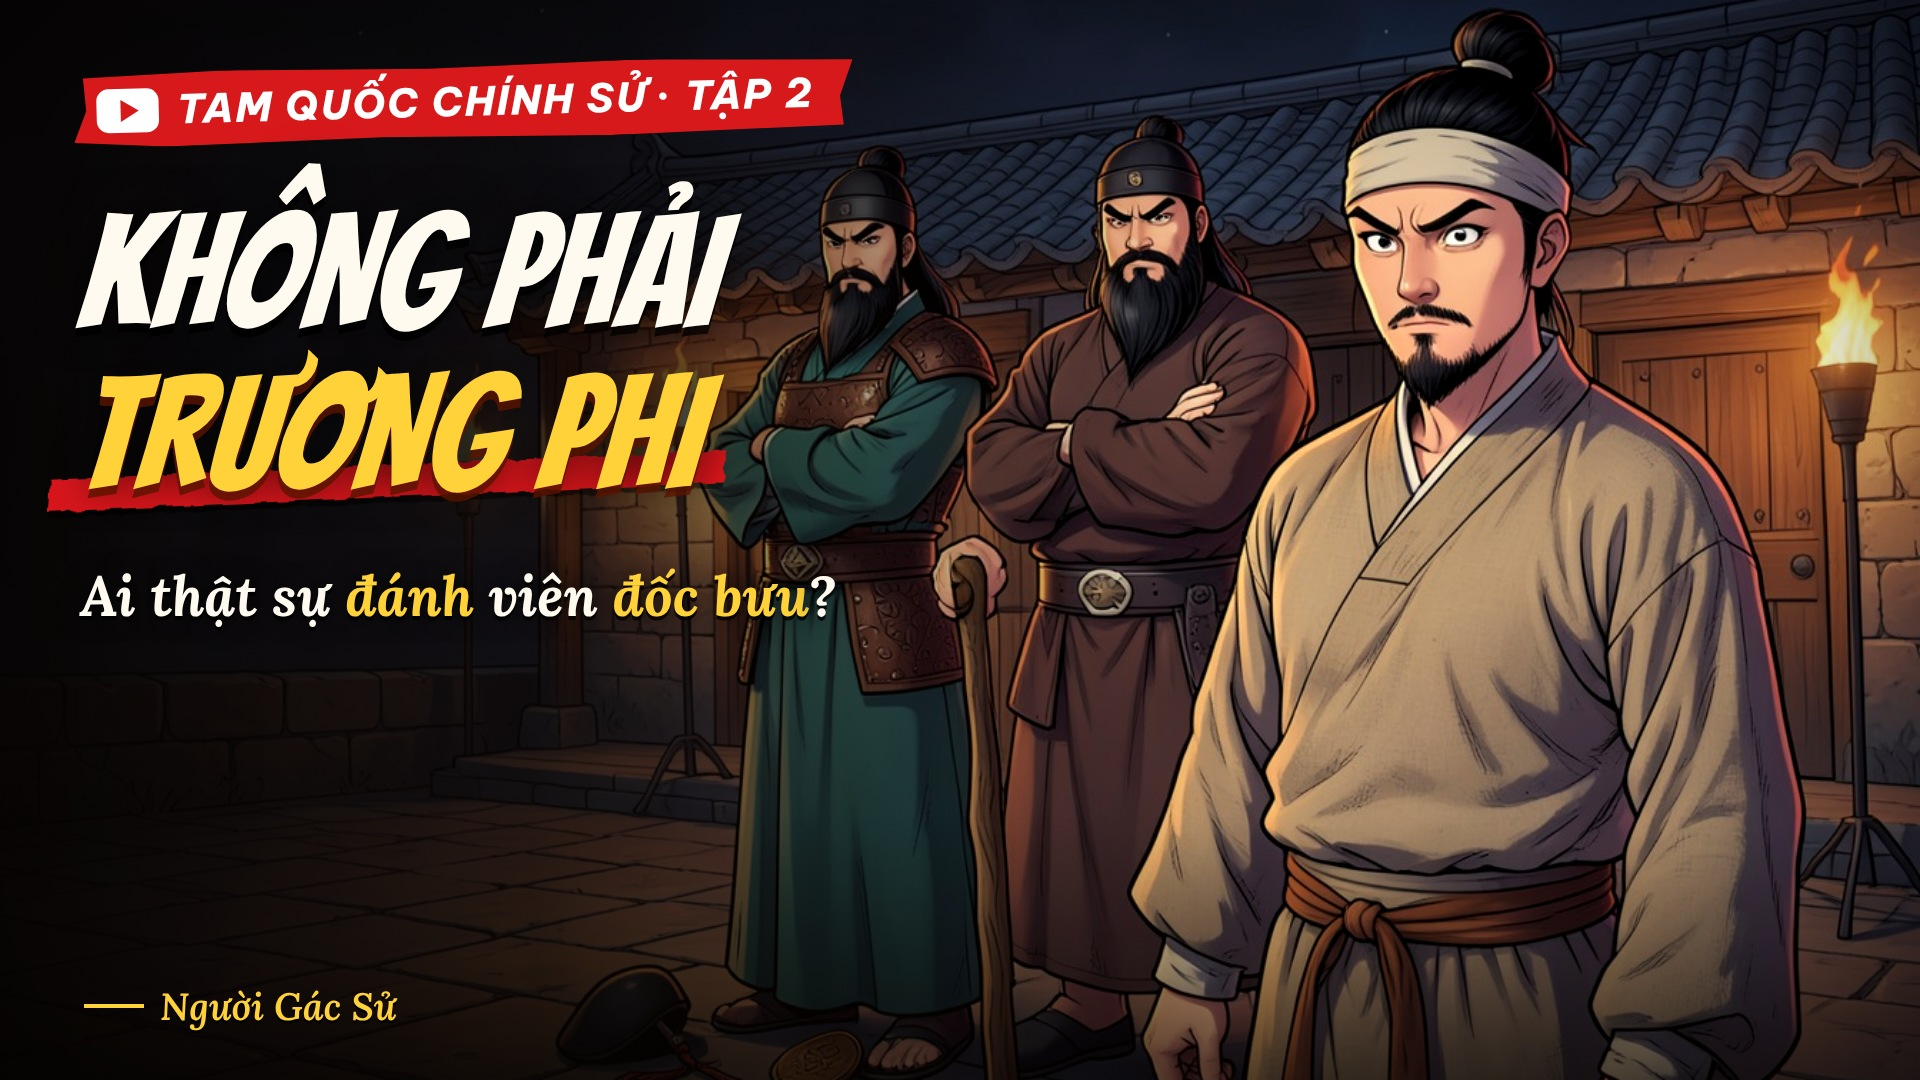
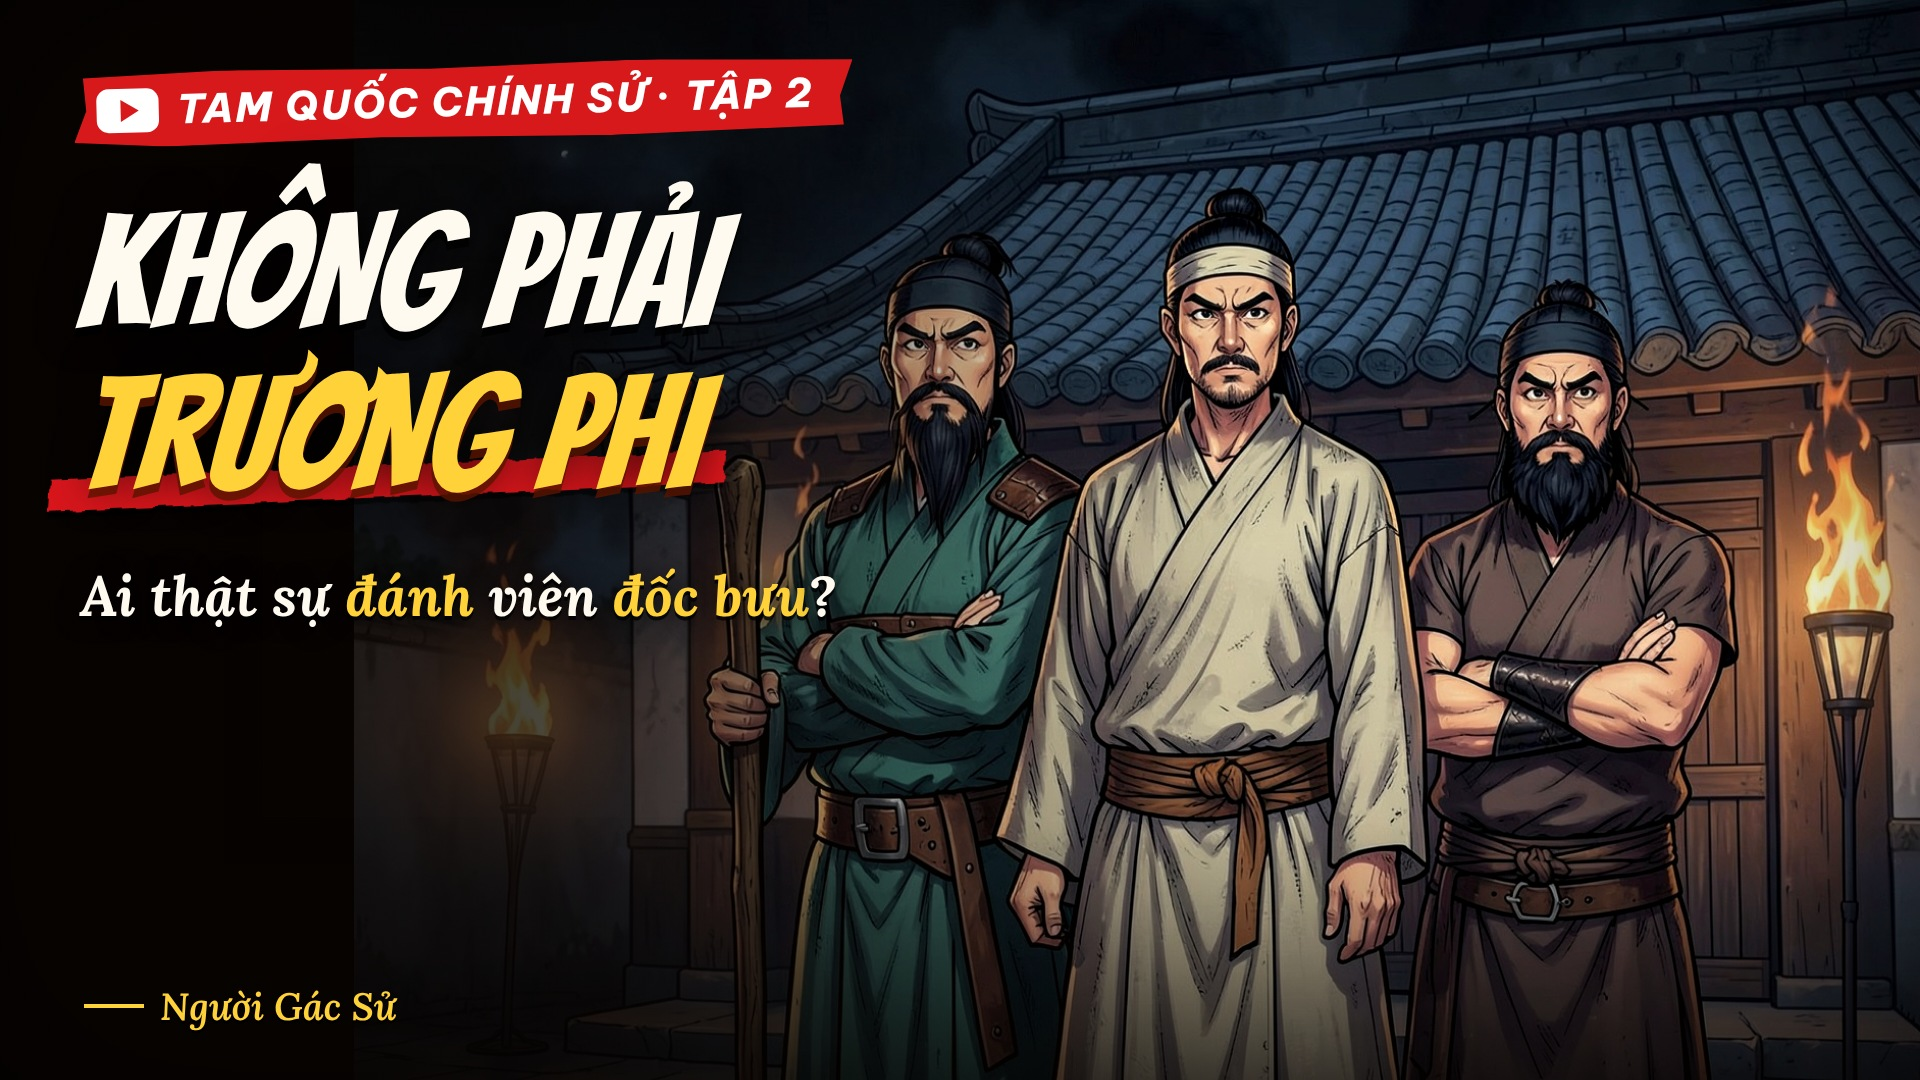
Bìa TQ2: một ảnh chung cho hai khổ (Lưu Bị, Quan Vũ, Trương Phi), cắt riêng từng khổ
Claude-Session: https://claude.ai/code/session_01HrHutZPxqihVFi29VgDfRn

diff --git a/templates/bia2.html b/templates/bia2.html
@@ -9,7 +9,7 @@
 html,body{width:1920px;height:1080px;overflow:hidden;background:#000}
 html:has(body.v){width:1080px;height:1920px}
 body.v{width:1080px;height:1920px}
-#art{position:absolute;inset:0;background-size:cover;background-position:center;filter:saturate(1.12) contrast(1.06)}
+#art{position:absolute;inset:0;background-color:#0a0705;background-repeat:no-repeat;background-size:cover;background-position:center;filter:saturate(1.12) contrast(1.06)}
 #shade{position:absolute;inset:0}
 body.w #shade{background:linear-gradient(90deg,rgba(8,4,2,.92) 0%,rgba(8,4,2,.74) 28%,rgba(8,4,2,.2) 52%,rgba(8,4,2,0) 64%),linear-gradient(0deg,rgba(8,4,2,.55) 0%,rgba(8,4,2,0) 24%)}
 body.v #shade{background:linear-gradient(0deg,rgba(8,4,2,1) 0%,rgba(8,4,2,.95) 24%,rgba(8,4,2,.6) 36%,rgba(8,4,2,.25) 44%,rgba(8,4,2,0) 52%),linear-gradient(180deg,rgba(8,4,2,.6) 0%,rgba(8,4,2,0) 14%)}
@@ -62,6 +62,7 @@ window.setup = function (o) {
   document.body.className = o.mode;
   document.getElementById('art').style.backgroundImage = `url("${o.anh}")`;
   if (o.vi_tri) document.getElementById('art').style.backgroundPosition = o.vi_tri;
+  if (o.co) document.getElementById('art').style.backgroundSize = o.co;
   document.getElementById('bd').textContent = o.huy_hieu;
   document.getElementById('a').textContent = o.dong1;
   document.getElementById('bt').textContent = o.dong2;

diff --git a/bia_dai.py b/bia_dai.py
@@ -28,7 +28,8 @@ def main_moi(sid, script, b, cfg):
             page.goto((ROOT / "templates" / "bia2.html").as_uri())
             o = {"anh": (ROOT / anh).as_uri(), "huy_hieu": t["huy_hieu"], "dong1": t["dong1"], "dong2": t["dong2"],
                  "gach": t.get("gach", False), "dong3": t["dong3"], "kenh": cfg.get("channel", ""), "mode": mode,
-                 "vi_tri": t.get("vi_tri_doc" if mode == "v" else "vi_tri_rong") or t.get("vi_tri")}
+                 "vi_tri": t.get("vi_tri_doc" if mode == "v" else "vi_tri_rong") or b.get("vi_tri_doc" if mode == "v" else "vi_tri_rong"),
+                 "co": t.get("co_doc" if mode == "v" else "co_rong") or b.get("co_doc" if mode == "v" else "co_rong")}
             page.evaluate("o => window.setup(o)", o)
             page.wait_for_timeout(500)
             page.screenshot(path=str(out / name), type="jpeg", quality=93)
